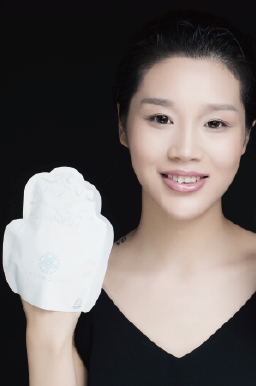
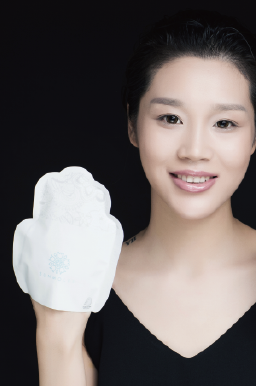
0918

Changed region(s): [[0.0, 0.0933, 1.0, 1.0], [0.75, 0.0622, 0.8125, 0.0933], [0.9688, 0.1244, 1.0, 0.1554]]

diff --git a/app/assets/stylesheets/unit1.scss b/app/assets/stylesheets/unit1.scss
@@ -21,7 +21,7 @@
 }
 .unit1 .ptslide {
 	position: absolute;
-	top: 100px;
+	top: 158px;
 	left: 0;
 	width: 100%;
 	text-align: center;
@@ -37,7 +37,7 @@
     height: 470px;
     margin: 0 auto 40px auto;
     padding: 0 0 0 0;
-	background: url(/images/unit1/area01_pt_bg.png) repeat;
+	// background: url(/images/unit1/area01_pt_bg.png) repeat;
 }
 .unit1 .ptslide .bgbox .fresh {
     position: absolute;

diff --git a/app/assets/stylesheets/landing_page.scss b/app/assets/stylesheets/landing_page.scss
@@ -21,4 +21,8 @@ div {
   margin: 0 0 0 95px;
   display: block;
   overflow: hidden;
+
+  .mainbg img{
+    width: 100%
+  }
 }
